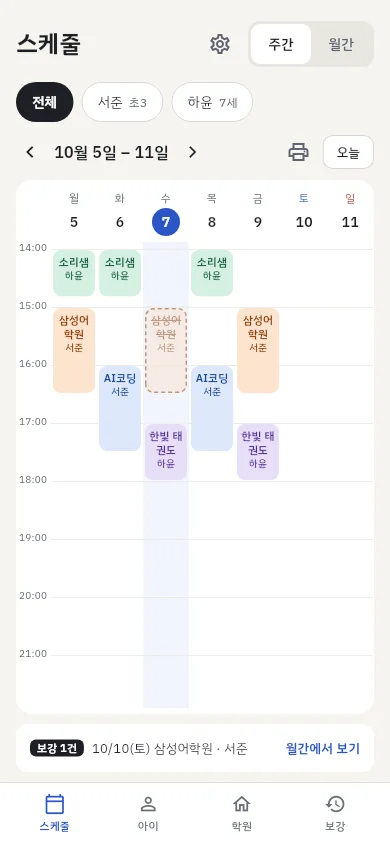
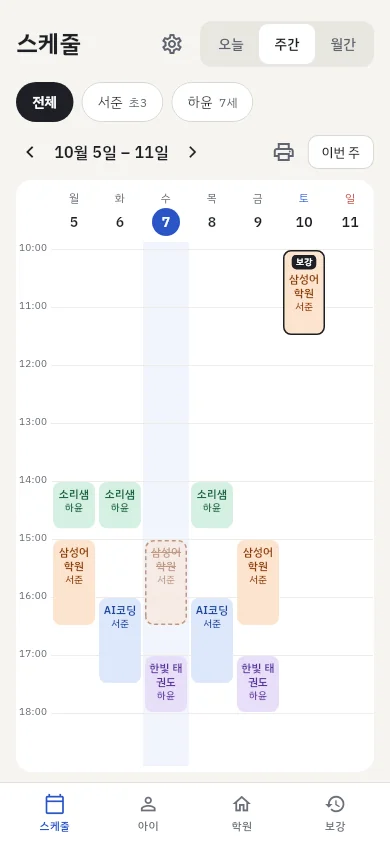
1.2.1: 설명서(주간 보강 블록·월간 빈 날 보강 등록·PDF A4 세로), 주간 화면 이미지, sitemap lastmod

diff --git a/manual/index.html b/manual/index.html
@@ -22,7 +22,7 @@
 
   <main class="doc">
     <h1>아이타임 사용 설명서</h1>
-    <div class="date">앱 버전 1.2 기준 · 2026년 10월</div>
+    <div class="date">앱 버전 1.2.1 기준 · 2026년 10월</div>
 
     <p>아이타임은 여러 자녀의 학원 시간표·보강·학원비 결제일을 한 폰에서 관리하는 앱이에요.
       처음이라면 <a href="#start">시작하기</a>의 세 단계만 따라 하면 시간표가 채워져요.</p>
@@ -145,8 +145,9 @@
         같은 아이의 학원 수업과 시간이 겹치면 블록에 <strong>⚠</strong> 표시가 붙어요.</li>
       <li>수업 블록을 누르면 수업 정보가 뜨고, 거기서 <strong>이 수업 보강 등록</strong>이나 <strong>수강 수정</strong>으로 갈 수 있어요.</li>
       <li id="cancel">보강 날짜가 아직 없어도 <strong>휴강 설정</strong>을 누르면 그 날 수업 하나가 빠진 수업이 돼요. 사유(휴강·결석·기타)와 짧은 메모(40자까지)를 남길 수 있고, <strong>휴강 취소</strong>로 되돌려요. 나중에 보강 날짜가 정해지면 같은 수업에서 <strong>이 수업 보강 등록</strong>을 누르면 사유·메모가 이어져요. 보강이 정해지지 않은 휴강은 <strong>보강</strong> 탭 위쪽 <strong>보강 날짜 미정</strong>에 모여요.</li>
-      <li><strong>흐리고 점선·취소선인 블록</strong>은 빠진 수업(휴강 설정 또는 보강 등록)이에요. 보강 자체는 주간에 그리지 않고, 아래 <strong>보강 n건</strong> 줄로 알려줘요. 그 줄을 누르면 월간으로 가요.</li>
-      <li id="print"><strong>이번 주</strong> 왼쪽의 <strong>인쇄 아이콘</strong>을 누르면 보고 있는 주의 시간표를 A4 가로 한 장 PDF로 만들어요. 위에서 고른 아이 그대로예요. 학교를 등록한 아이는 학교 시간(등교~하교)도 함께 실리고, 쉬는 날·학원과 겹침도 화면과 같아요(저장해 둔 시간표로 만들어서 인터넷이 없어도 돼요). <strong>인쇄하기</strong>는 폰의 인쇄 화면을 열고(거기서 PDF로 저장도 돼요), <strong>PDF 공유하기</strong>는 메신저·메일로 보낼 수 있어요.</li>
+      <li><strong>흐리고 점선·취소선인 블록</strong>은 빠진 수업(휴강 설정 또는 보강 등록)이에요.</li>
+      <li><strong>검은 「보강」 표시와 진한 테두리가 있는 블록</strong>은 보강이에요. 보강 날짜·시간 칸에 그려지고, 누르면 보강 수정 화면이 열려요.</li>
+      <li id="print"><strong>이번 주</strong> 왼쪽의 <strong>인쇄 아이콘</strong>을 누르면 보고 있는 주의 시간표를 A4 세로 한 장 PDF로 만들어요. 위에서 고른 아이 그대로이고, 보강도 화면처럼 그 칸에 실려요. 학교를 등록한 아이는 학교 시간(등교~하교)도 함께 실리고, 쉬는 날·학원과 겹침도 화면과 같아요(저장해 둔 시간표로 만들어서 인터넷이 없어도 돼요). <strong>인쇄하기</strong>는 폰의 인쇄 화면을 열고(거기서 PDF로 저장도 돼요), <strong>PDF 공유하기</strong>는 메신저·메일로 보낼 수 있어요.</li>
     </ul>
     <div class="shot-row">
       <figure><div class="phone sm"><img src="../img/cancel.webp" width="390" height="844" alt="휴강 설정 화면: 사유(휴강·결석·기타)와 메모 입력, 저장 버튼" loading="lazy"></div><figcaption>휴강 설정</figcaption></figure>
@@ -157,11 +158,12 @@
       <li>일요일부터 시작하는 달력이에요. 날짜 아래 <strong>점</strong>이 그날의 정규 수업(학원 색)이에요.</li>
       <li><strong>속이 빈 점</strong>은 빠진 수업, 검은 <strong>보강</strong> 배지는 그날 보강이 있다는 뜻이에요.</li>
       <li>날짜를 누르면 아래에 그날 일정(정규 수업 + 보강)이 시간순으로 나와요.</li>
+      <li>일정이 없는 날을 누르면 아래에 <strong>이날 보강 등록</strong>이 나와요. 누르면 그 날짜가 채워진 보강 등록 화면이 열려요(위에서 아이 한 명을 골라 두었으면 그 아이도).</li>
     </ul>
 
     <h2 id="makeup">3. 보강 관리</h2>
     <ol>
-      <li><strong>보강</strong> 탭 → <strong>보강 등록</strong>. (주간 블록을 눌러 <strong>이 수업 보강 등록</strong>으로 들어오면 빠진 수업이 미리 채워져요.)</li>
+      <li><strong>보강</strong> 탭 → <strong>보강 등록</strong>. (주간 블록을 눌러 <strong>이 수업 보강 등록</strong>으로 들어오면 빠진 수업이, 월간의 빈 날짜에서 <strong>이날 보강 등록</strong>으로 들어오면 보강 날짜가 미리 채워져요.)</li>
       <li>아이와 학원을 골라요.</li>
       <li>종류를 골라요.
         <ul>
